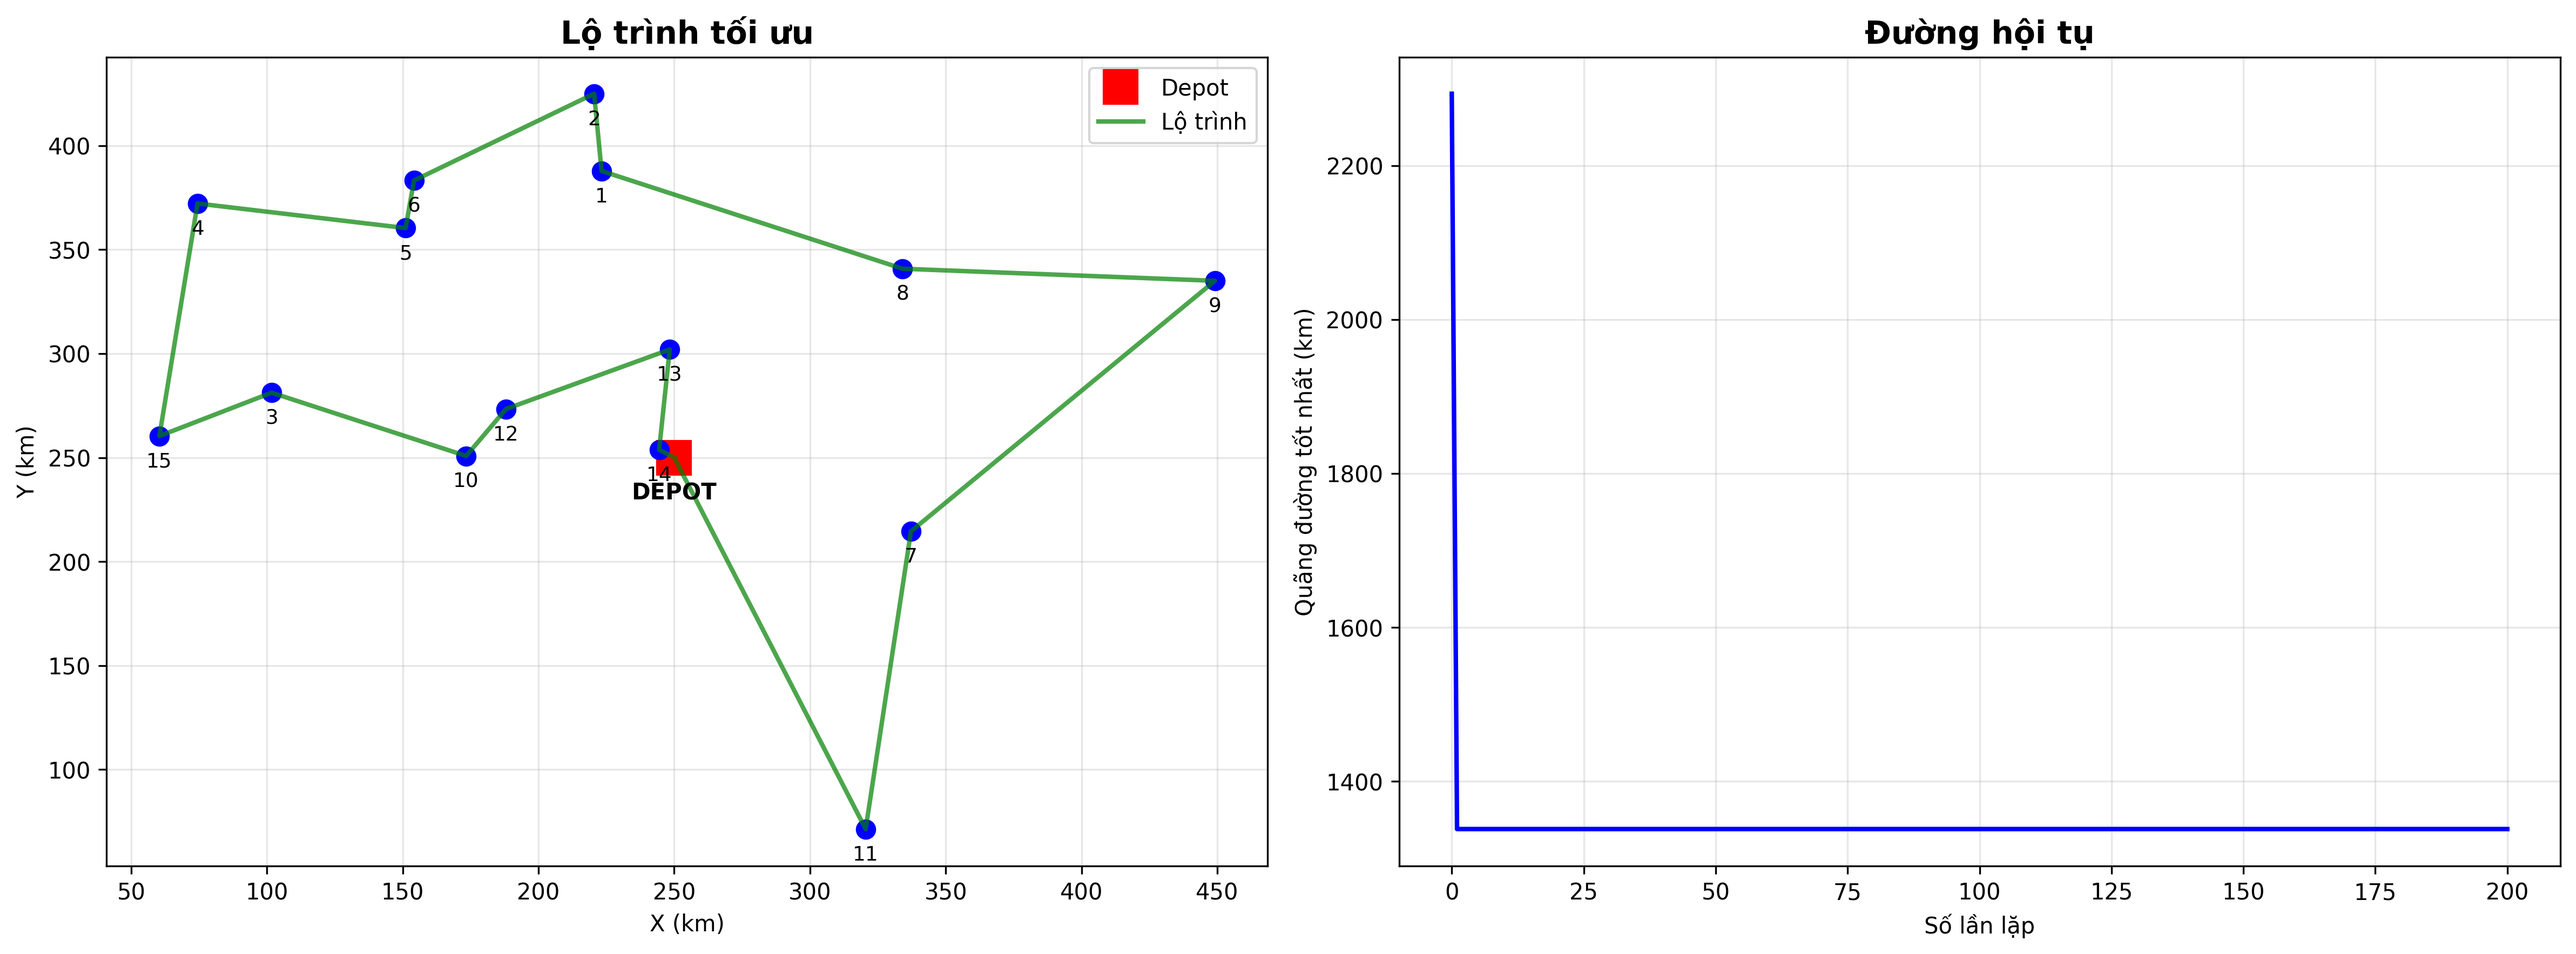
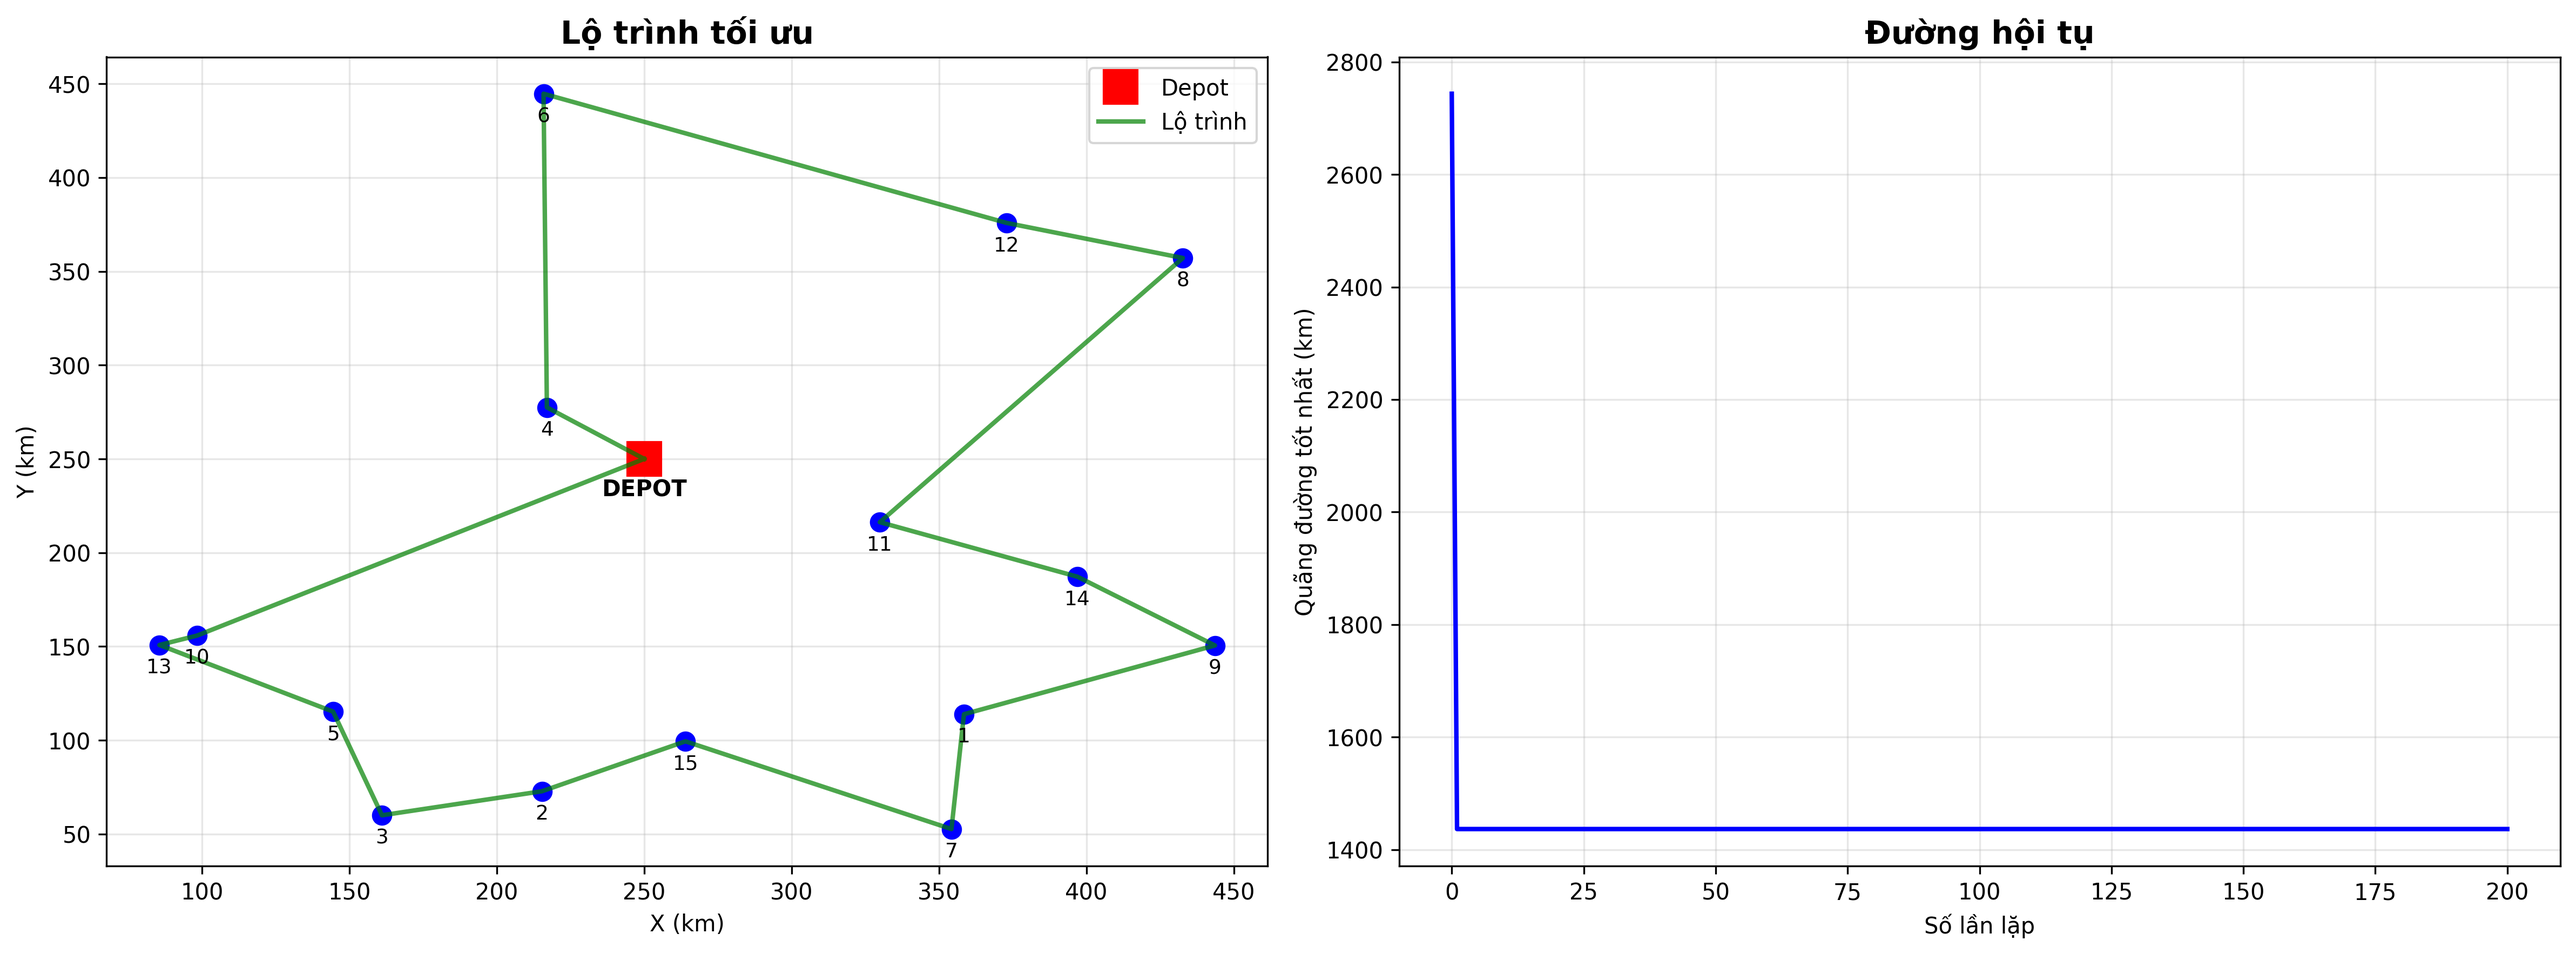
Initial commit

diff --git a/GWO_SIM_MIMO.m b/GWO_SIM_MIMO.m
@@ -1,0 +1,88 @@
+clc; clear; close all;
+
+%% ================= THAM SO =================
+SearchAgents = 30;      % So luong soi
+MaxIter = 100;          % So vong lap
+M = 32;                 % So phan tu metasurface
+
+lb = zeros(1,M);        % Gioi han duoi
+ub = 2*pi*ones(1,M);    % Gioi han tren
+
+%% ================= KHOI TAO =================
+Positions = rand(SearchAgents,M).*(ub-lb) + lb;
+
+Alpha_pos  = zeros(1,M);
+Beta_pos   = zeros(1,M);
+Delta_pos  = zeros(1,M);
+
+Alpha_score = -inf;
+Beta_score  = -inf;
+Delta_score = -inf;
+
+Convergence_GWO = zeros(1,MaxIter);
+
+%% ================= GWO =================
+for t = 1:MaxIter
+
+    for i = 1:SearchAgents
+
+        % Gioi han bien
+        Positions(i,:) = min(max(Positions(i,:),lb),ub);
+
+        % Danh gia fitness
+        fit = fitness_SIM_MIMO(Positions(i,:));
+
+        % Cap nhat Alpha, Beta, Delta
+        if fit > Alpha_score
+            Delta_score = Beta_score;  Delta_pos = Beta_pos;
+            Beta_score  = Alpha_score; Beta_pos  = Alpha_pos;
+            Alpha_score = fit;         Alpha_pos = Positions(i,:);
+
+        elseif fit > Beta_score
+            Delta_score = Beta_score;  Delta_pos = Beta_pos;
+            Beta_score  = fit;         Beta_pos  = Positions(i,:);
+
+        elseif fit > Delta_score
+            Delta_score = fit;
+            Delta_pos   = Positions(i,:);
+        end
+    end
+
+    % Luu lich su hoi tu
+    Convergence_GWO(t) = Alpha_score;
+
+    % He so dieu chinh
+    a = 2 - 2*t/MaxIter;
+
+    % Cap nhat vi tri soi
+    for i = 1:SearchAgents
+        for j = 1:M
+            X1 = update_position(Alpha_pos(j), Positions(i,j), a);
+            X2 = update_position(Beta_pos(j),  Positions(i,j), a);
+            X3 = update_position(Delta_pos(j), Positions(i,j), a);
+            Positions(i,j) = (X1 + X2 + X3)/3;
+        end
+    end
+
+    fprintf('Iter %3d | Best Capacity = %.4f\n', t, Alpha_score);
+end
+
+disp('Optimal phase vector (GWO):');
+disp(Alpha_pos);
+
+%% ================= BASELINE (RANDOM) =================
+Baseline = zeros(1,MaxIter);
+for k = 1:MaxIter
+    theta_rand = rand(1,M)*2*pi;
+    Baseline(k) = fitness_SIM_MIMO(theta_rand);
+end
+
+%% ================= VE BIEU DO =================
+figure;
+plot(1:MaxIter, Convergence_GWO, 'r-', 'LineWidth', 2); hold on;
+plot(1:MaxIter, Baseline, 'b--', 'LineWidth', 2);
+grid on;
+xlabel('Iteration');
+ylabel('Capacity (bits/s/Hz)');
+legend('Proposed GWO','Baseline (Random Phase)','Location','best');
+title('Performance Comparison: GWO vs Baseline');

diff --git a/fitness_SIM_MIMO.m b/fitness_SIM_MIMO.m
@@ -1,0 +1,22 @@
+function capacity = fitness_SIM_MIMO(theta)
+
+%% THAM SO HE THONG
+Nt = 4; Nr = 4;       % so anten
+M  = length(theta);   % so phan tu metasurface
+SNR = 10;             % SNR (dB)
+
+%% MA TRAN KENH NGAU NHIEN
+H_t = (randn(M,Nt)+1j*randn(M,Nt))/sqrt(2);
+H_r = (randn(Nr,M)+1j*randn(Nr,M))/sqrt(2);
+
+%% MA TRAN PHA METASURFACE
+Phi = diag(exp(1j*theta));
+
+%% KENH HIEU DUNG
+H_eff = H_r * Phi * H_t;
+
+%% TINH CAPACITY
+snr_lin = 10^(SNR/10);
+capacity = real(log2(det( eye(Nr) + (snr_lin/Nt)*(H_eff*H_eff') )));
+
+end

diff --git a/update_position.m b/update_position.m
@@ -1,0 +1,7 @@
+function X = update_position(X_leader, X_current, a)
+    r1 = rand(); r2 = rand();
+    A = 2*a*r1 - a;
+    C = 2*r2;
+    D = abs(C*X_leader - X_current);
+    X = X_leader - A*D;
+end
